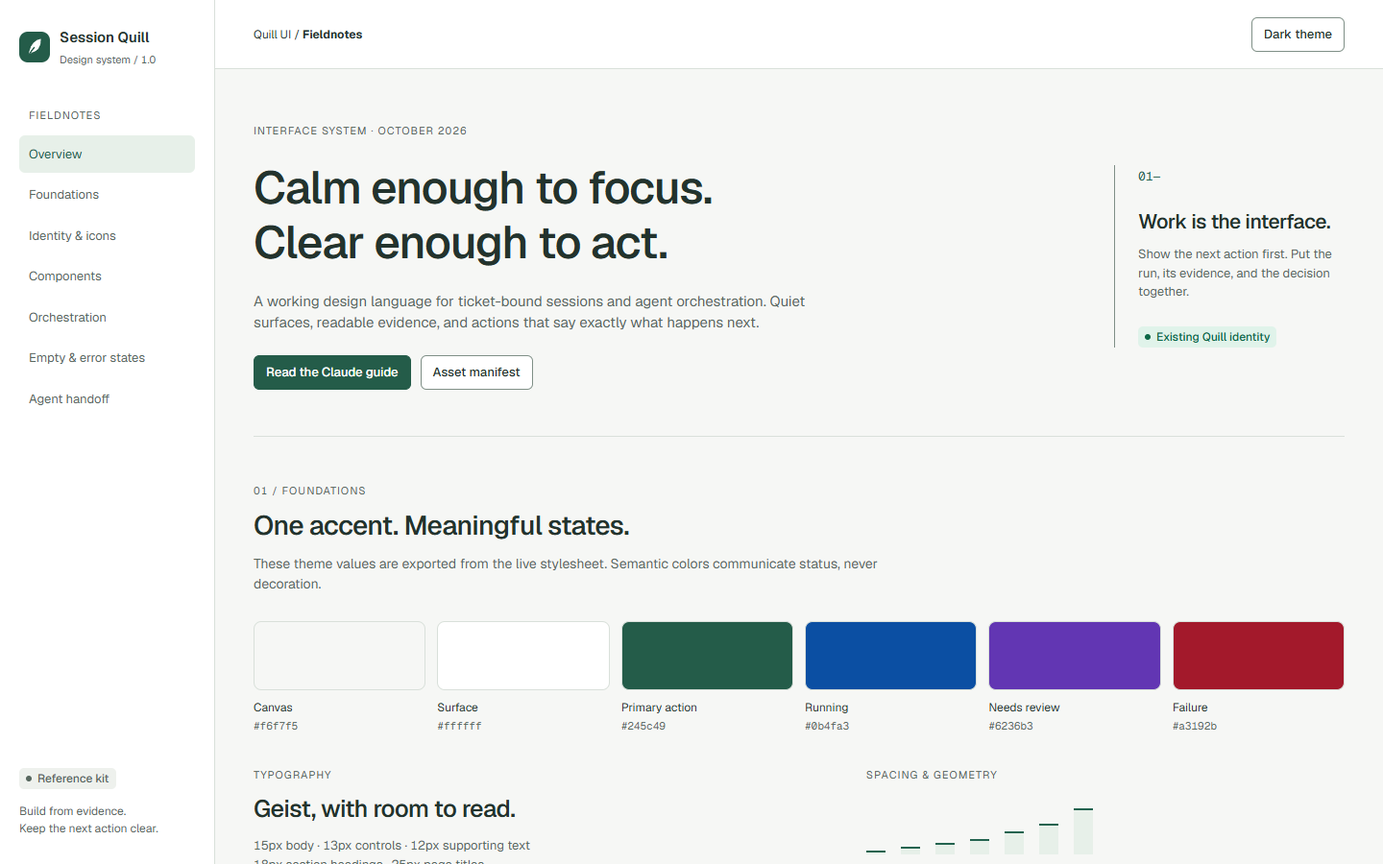
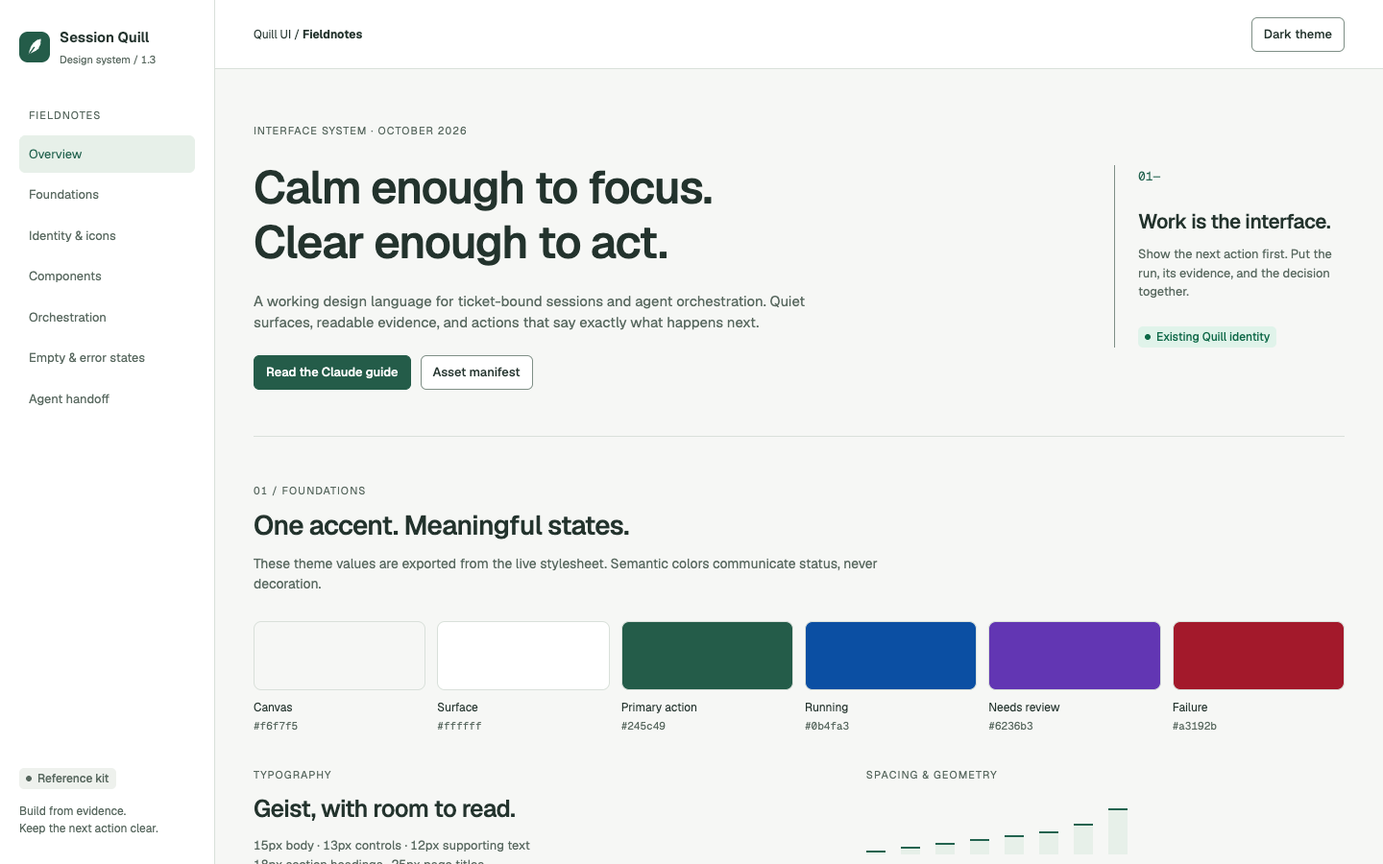
fix(ui): align accessibility and Fieldnotes design guidance

diff --git a/docs/design-system/index.html b/docs/design-system/index.html
@@ -3,14 +3,14 @@
 <head><meta charset="utf-8"><meta name="viewport" content="width=device-width,initial-scale=1"><title>Quill — Fieldnotes design system</title><meta name="description" content="Quill UI assets, tokens, components and orchestration patterns for implementation agents."><link rel="icon" href="../../ui/assets/brand/quill-mark-light.svg"><link rel="stylesheet" href="../../ui/assets/tokens.css"><link rel="stylesheet" href="../../ui/assets/components.css"><link rel="stylesheet" href="reference.css"></head>
 <body>
 <a class="skip" href="#main">Skip to reference</a>
-<aside class="rail"><a class="brand" href="#"><img src="../../ui/assets/brand/quill-mark-light.svg" alt="" width="32" height="32"><span>Session Quill<small>Design system / 1.0</small></span></a><p class="rail-caption">Fieldnotes</p><nav aria-label="Design system"><a href="#principles">Overview</a><a href="#foundations">Foundations</a><a href="#identity">Identity & icons</a><a href="#components">Components</a><a href="#orchestration">Orchestration</a><a href="#states">Empty & error states</a><a href="#handoff">Agent handoff</a></nav><div class="rail-foot"><span class="q-chip">Reference kit</span><p>Build from evidence.<br>Keep the next action clear.</p></div></aside>
+<aside class="rail"><a class="brand" href="#"><img src="../../ui/assets/brand/quill-mark-light.svg" alt="" width="32" height="32"><span>Session Quill<small>Design system / 1.3</small></span></a><p class="rail-caption">Fieldnotes</p><nav aria-label="Design system"><a href="#principles">Overview</a><a href="#foundations">Foundations</a><a href="#identity">Identity & icons</a><a href="#components">Components</a><a href="#orchestration">Orchestration</a><a href="#states">Empty & error states</a><a href="#handoff">Agent handoff</a></nav><div class="rail-foot"><span class="q-chip">Reference kit</span><p>Build from evidence.<br>Keep the next action clear.</p></div></aside>
 <div class="canvas"><header class="toolbar"><span>Quill UI / <strong>Fieldnotes</strong></span><button class="q-button" id="theme" type="button" aria-pressed="false">Dark theme</button></header>
 <main id="main">
 <section id="principles" class="intro"><div><p class="eyebrow">Interface system · October 2026</p><h1>Calm enough to focus.<br>Clear enough to act.</h1><p class="lede">A working design language for ticket-bound sessions and agent orchestration. Quiet surfaces, readable evidence, and actions that say exactly what happens next.</p><div class="links"><a class="q-button q-button--primary" href="CLAUDE-DESIGN-SYSTEM.md">Read the Claude guide</a><a class="q-button" href="../../ui/assets/manifest.json">Asset manifest</a></div></div><div class="intro-note"><span class="index">01—</span><h2>Work is the interface.</h2><p>Show the next action first. Put the run, its evidence, and the decision together.</p><div class="q-chip" data-tone="good">Existing Quill identity</div></div></section>
 <section id="foundations"><div class="section-heading"><p class="eyebrow">01 / Foundations</p><h2>One accent. Meaningful states.</h2><p>These theme values are exported from the live stylesheet. Semantic colors communicate status, never decoration.</p></div><div id="swatches" class="swatches"></div><div class="foundation-bottom"><div><p class="eyebrow">Typography</p><h3 class="type-sample">Geist, with room to read.</h3><p>15px body · 13px controls · 12px supporting text<br>18px section headings · 25px page titles</p><code class="mono-sample">PROJ-42 · 1 min 24 s · 12 / 18</code><p class="q-caption">Geist Mono for keys, durations and source evidence. Both fonts are bundled locally.</p></div><div><p class="eyebrow">Spacing & geometry</p><div class="spacing" id="spacing"></div><p class="q-caption">4px base rhythm · 6px controls · 10px cards · 12px panels.<br>36px desktop controls; 44px coarse-pointer targets.</p></div></div></section>
 <section id="identity"><div class="section-heading"><p class="eyebrow">02 / Identity & iconography</p><h2>A familiar mark. A consistent line.</h2><p>Preserve the existing Quill feather. Icons use the current 16px grid and 1.5px stroke; eight additions support orchestration.</p></div><div class="brand-samples"><div class="brand-light"><img src="../../ui/assets/brand/quill-mark-light.svg" alt="Quill mark for light surfaces"><span>Session Quill</span></div><div class="brand-dark"><img src="../../ui/assets/brand/quill-mark-dark.svg" alt="Quill mark for dark surfaces"><span>Session Quill</span></div><div class="brand-mono"><img src="../../ui/assets/brand/quill-mark-mono.svg" alt="Monochrome Quill mark"><span>Single-color mark</span></div></div><div class="icon-toolbar"><label class="q-field" for="icon-search">Find an icon<input class="q-input" id="icon-search" type="search" placeholder="Search icons: queue, tests, approve…"></label><p class="q-caption">Select an icon to copy its SVG markup.</p></div><div id="icons" class="icon-grid"></div><p id="icon-empty" hidden>No matching icons. Try a shorter name.</p></section>
 <section id="components"><div class="section-heading"><p class="eyebrow">03 / Components</p><h2>Small parts, explicit behavior.</h2><p>Opt-in <code>q-*</code> styles for new UI. Existing dashboard classes remain unchanged.</p></div><div class="component-grid"><article class="specimen"><h3>Action hierarchy</h3><div class="row"><button class="q-button q-button--primary" data-demo="Primary action specimen" type="button">Queue run</button><button class="q-button" data-demo="Secondary action specimen" type="button">View evidence</button><button class="q-button q-button--quiet" data-demo="Quiet action specimen" type="button">Dismiss</button></div><div class="row"><button class="q-button q-button--danger" data-demo="Destructive action specimen; confirmation required in a real flow" type="button">Cancel run</button><button class="q-button" disabled>Waiting for worker</button></div><p class="q-caption">Specimens only. These buttons do not dispatch or cancel runs.</p></article><article class="specimen"><h3>Labelled status</h3><div class="row"><span class="q-chip">Queued</span><span class="q-chip" data-tone="active">Running</span><span class="q-chip" data-tone="review">Needs review</span><span class="q-chip" data-tone="good">Tests passed (worker)</span><span class="q-chip" data-tone="critical">Tests failed</span><span class="q-chip" data-tone="warning">Not test-verified</span></div><p class="q-caption">A green test result needs worker evidence. Run completion is not ticket completion.</p></article><article class="specimen"><h3>Form guidance</h3><label class="q-field" for="sample-command">Repository test command<input class="q-input" id="sample-command" value="npm test" aria-describedby="command-help"></label><p id="command-help" class="q-caption">Reference field only. Run in the isolated checkout; show the recorded result.</p><label class="q-field" for="sample-branch">Branch<input class="q-input" id="sample-branch" value="main" aria-invalid="true" aria-describedby="branch-error"></label><p id="branch-error" class="q-error">Choose a working branch. The default branch is protected.</p></article><article class="specimen"><h3>Evidence before decisions</h3><div class="q-next-action"><strong>Next action</strong>Inspect the retry fix and its worker test result.</div><p class="q-caption">State the concrete action. Keep the underlying record accessible when the preview is truncated.</p><div class="q-notice">Analysis complete. Two suggestions are waiting for your review.</div></article></div></section>
-<section id="orchestration"><div class="section-heading"><p class="eyebrow">04 / Orchestration pattern</p><h2>See the work through.</h2><p><strong>The shipped Runs page, with example data.</strong> Rows state only what the worker records: occupancy while queued, elapsed time while running, outcomes when finished.</p></div><div class="run-example q-panel"><div class="run-heading"><div><h3>Runs</h3><p class="q-caption">Example workspace · independent run and ticket states</p></div><span class="q-chip" data-tone="review">Example data</span></div><div class="q-tabs" role="tablist" aria-label="Run examples"><button class="q-tab" role="tab" id="tab-needs" aria-selected="true" aria-controls="panel-needs" data-panel="needs">Needs you <span>1</span></button><button class="q-tab" role="tab" id="tab-live" aria-selected="false" aria-controls="panel-live" tabindex="-1" data-panel="live">Live <span>2</span></button><button class="q-tab" role="tab" id="tab-failed" aria-selected="false" aria-controls="panel-failed" tabindex="-1" data-panel="failed">Failed <span>1</span></button></div><div role="tabpanel" id="panel-needs" aria-labelledby="tab-needs" class="run-panel"><div class="q-run-row"><div><code>PROJ-42 / analyse</code><h4>Verify checkpoint recovery</h4><p class="q-caption">2 suggestions to review · Read-only</p></div><span class="q-chip" data-tone="review">Done</span></div><div class="q-notice">The run finished. Suggestions still need an owner decision.</div></div><div role="tabpanel" id="panel-live" aria-labelledby="tab-live" class="run-panel" hidden><div class="q-run-row"><div><code>PROJ-43 / attempt-fix</code><h4>Respect the payments retry budget</h4><p class="q-caption">Running for 2 min · setup 4 s · Edits source</p></div><span class="q-chip" data-tone="active">Running</span></div><div class="q-run-row"><div><code>PROJ-47 / attempt-fix</code><h4>Handle retry exhaustion</h4><p class="q-caption">Queued · fix slots 1/1 in use · repository busy</p></div><span class="q-chip">Queued</span></div><div class="q-notice">No ETA shown. Start time depends on the active run releasing capacity.</div></div><div role="tabpanel" id="panel-failed" aria-labelledby="tab-failed" class="run-panel" hidden><div class="q-run-row"><div><code>PROJ-51 / attempt-fix</code><h4>Cap the webhook backoff</h4><p class="q-caption">Tests failed · Retried as a new run</p></div><span class="q-chip" data-tone="critical">Failed</span></div><div class="q-notice">A later run superseded this one, so it no longer needs you.</div></div></div></section>
+<section id="orchestration"><div class="section-heading"><p class="eyebrow">04 / Orchestration pattern</p><h2>See the work through.</h2><p><strong>A simplified Runs pattern, with example data.</strong> This specimen demonstrates status and evidence wording; the production page also includes All, grouped decisions, and selectable run rows.</p></div><div class="run-example q-panel"><div class="run-heading"><div><h3>Runs</h3><p class="q-caption">Example workspace · independent run and ticket states</p></div><span class="q-chip" data-tone="review">Example data</span></div><div class="q-tabs" role="tablist" aria-label="Run examples"><button class="q-tab" role="tab" id="tab-needs" aria-selected="true" aria-controls="panel-needs" data-panel="needs">Needs you <span>1</span></button><button class="q-tab" role="tab" id="tab-live" aria-selected="false" aria-controls="panel-live" tabindex="-1" data-panel="live">Live <span>2</span></button><button class="q-tab" role="tab" id="tab-failed" aria-selected="false" aria-controls="panel-failed" tabindex="-1" data-panel="failed">Failed <span>1</span></button></div><div role="tabpanel" tabindex="0" id="panel-needs" aria-labelledby="tab-needs" class="run-panel"><div class="q-run-row"><div><code>PROJ-42 / analyse</code><h4>Verify checkpoint recovery</h4><p class="q-caption">2 suggestions to review · Read-only</p></div><span class="q-chip" data-tone="review">Done</span></div><div class="q-notice">The run finished. Suggestions still need an owner decision.</div></div><div role="tabpanel" tabindex="0" id="panel-live" aria-labelledby="tab-live" class="run-panel" hidden><div class="q-run-row"><div><code>PROJ-43 / attempt-fix</code><h4>Respect the payments retry budget</h4><p class="q-caption">Running for 2 min · setup 4 s · Edits source</p></div><span class="q-chip" data-tone="active">Running</span></div><div class="q-run-row"><div><code>PROJ-47 / attempt-fix</code><h4>Handle retry exhaustion</h4><p class="q-caption">Queued · fix slots 1/1 in use · repository busy</p></div><span class="q-chip">Queued</span></div><div class="q-notice">No ETA shown. Start time depends on the active run releasing capacity.</div></div><div role="tabpanel" tabindex="0" id="panel-failed" aria-labelledby="tab-failed" class="run-panel" hidden><div class="q-run-row"><div><code>PROJ-51 / attempt-fix</code><h4>Cap the webhook backoff</h4><p class="q-caption">Tests failed · Retried as a new run</p></div><span class="q-chip" data-tone="critical">Failed</span></div><div class="q-notice">A later run superseded this one, so it no longer needs you.</div></div></div></section>
 <section id="states"><div class="section-heading"><p class="eyebrow">05 / Empty & error states</p><h2>Always explain the next step.</h2><p>Small, transparent SVG illustrations. Use one per empty region, with a real explanation and relevant action.</p></div><div class="empty-grid"><article class="q-empty q-panel"><img src="../../ui/assets/illustrations/empty-queue.svg" alt=""><h3>No runs queued</h3><p>Select a ticket and choose a recipe to prepare a run.</p><a class="q-button" href="#orchestration">View run pattern</a></article><article class="q-empty q-panel"><img src="../../ui/assets/illustrations/no-results.svg" alt=""><h3>No matching work</h3><p>Broaden the project or status filter to see more results.</p></article><article class="q-empty q-panel"><img src="../../ui/assets/illustrations/review-ready.svg" alt=""><h3>Review complete</h3><p>No suggestions are waiting for an owner decision.</p></article><article class="q-empty q-panel"><img src="../../ui/assets/illustrations/worker-offline.svg" alt=""><h3>Worker offline</h3><p>Showing the last snapshot. Changes cannot be queued until the connection returns.</p></article></div></section>
 <section id="handoff" class="handoff"><p class="eyebrow">06 / Agent handoff</p><h2>Use the system. Preserve the behavior.</h2><p>Start with the Claude guide, reuse existing renderers, and verify the full workflow. A visual state is a promise about the underlying record.</p><div class="links"><a class="q-button q-button--primary" href="CLAUDE-DESIGN-SYSTEM.md">Implementation contract</a><a class="q-button" href="../../ui/assets/README.md">Asset usage</a><a class="q-button" href="../AGENT-HANDOVER-ORCHESTRATION-1.0.md">Known gaps</a></div></section>
 <footer>Quill Fieldnotes · SVG assets under the repository MIT license · Geist under SIL OFL</footer>

diff --git a/docs/design-system/reference.js b/docs/design-system/reference.js
@@ -9,31 +9,37 @@ function refreshSwatches() {
 }
 themeButton.addEventListener('click', () => {
   const dark = root.dataset.theme !== 'dark'; root.dataset.theme = dark ? 'dark' : 'light';
-  themeButton.textContent = dark ? 'Light theme' : 'Dark theme'; themeButton.setAttribute('aria-pressed', String(dark)); refreshSwatches();
+  themeButton.setAttribute('aria-pressed', String(dark)); refreshSwatches();
   for (const art of document.querySelectorAll('.q-empty img')) { const name = art.getAttribute('src').replace('-dark.svg', '.svg'); art.src = dark ? name.replace('.svg', '-dark.svg') : name; }
   document.querySelector('.brand img').src = `../../ui/assets/brand/quill-mark-${dark ? 'dark' : 'light'}.svg`;
 });
 const palette = [['bg','Canvas'],['surface','Surface'],['accent-fill','Primary action'],['status-active','Running'],['status-review','Needs review'],['critical','Failure']];
 document.querySelector('#swatches').innerHTML = palette.map(([token, label]) => `<div class="swatch" data-token="${token}"><div class="swatch-color" style="background:var(--${token})"></div><p>${label}</p><code></code></div>`).join('');
 refreshSwatches();
-document.querySelector('#spacing').innerHTML = [4,8,12,16,24,32,48].map((n)=>`<div style="height:${n}px"><span>${n}</span></div>`).join('');
-try {
-  const response = await fetch('../../ui/assets/manifest.json'); if (!response.ok) throw new Error('Asset manifest unavailable');
-  const manifest = await response.json();
-  const icons = manifest.files.filter((f)=>f.role==='icon' && f.path!=='icons/sprite.svg');
-  const grid = document.querySelector('#icons');
-  for (const asset of icons) {
-    const name = asset.path.split('/').pop().replace('.svg','');
-    const button = document.createElement('button'); button.type='button'; button.className='icon-tile'; button.dataset.name=name; button.setAttribute('aria-label',`Copy ${name} SVG`);
-    // Assets are local, repository-owned SVG, generated by build-ui-assets.mjs.
-    const result = await fetch(`../../ui/assets/${asset.path}`); if (!result.ok) throw new Error(`Could not load ${name}`);
-    const svg=await result.text(); button.innerHTML=svg;
-    const label=document.createElement('span'); label.textContent=name; button.append(label);
-    button.addEventListener('click',async()=>{ try { await navigator.clipboard.writeText(svg); notify(`Copied ${name}.svg`); } catch { notify(`Clipboard unavailable. Download ui/assets/${asset.path} from the asset folder.`); } });
-    grid.append(button);
-  }
-} catch (error) { document.querySelector('#icons').textContent=`${error.message}. Serve this reference from the repository root over localhost; file:// cannot load the SVG catalog.`; }
-document.querySelector('#icon-search').addEventListener('input',(event)=>{ let count=0; for(const tile of document.querySelectorAll('.icon-tile')) { tile.hidden=!tile.dataset.name.includes(event.target.value.trim().toLowerCase()); if(!tile.hidden)count++; } document.querySelector('#icon-empty').hidden=count!==0; });
+document.querySelector('#spacing').innerHTML = [4,8,12,16,20,24,32,48].map((n)=>`<div style="height:${n}px"><span>${n}</span></div>`).join('');
+async function loadIcons() {
+  try {
+    const response = await fetch('../../ui/assets/manifest.json'); if (!response.ok) throw new Error('Asset manifest unavailable');
+    const manifest = await response.json();
+    const icons = manifest.files.filter((f)=>f.role==='icon' && f.path!=='icons/sprite.svg');
+    const grid = document.querySelector('#icons');
+    for (const asset of icons) {
+      const name = asset.path.split('/').pop().replace('.svg','');
+      const button = document.createElement('button'); button.type='button'; button.className='icon-tile'; button.dataset.name=name; button.setAttribute('aria-label',`Copy ${name} SVG`);
+      // Assets are local, repository-owned SVG, generated by build-ui-assets.mjs.
+      const result = await fetch(`../../ui/assets/${asset.path}`); if (!result.ok) throw new Error(`Could not load ${name}`);
+      const svg=await result.text(); button.innerHTML=svg;
+      const label=document.createElement('span'); label.textContent=name; button.append(label);
+      button.addEventListener('click',async()=>{ try { await navigator.clipboard.writeText(svg); notify(`Copied ${name}.svg`); } catch { notify(`Clipboard unavailable. Download ui/assets/${asset.path} from the asset folder.`); } });
+      grid.append(button);
+      filterIcons();
+    }
+  } catch (error) { document.querySelector('#icons').textContent=`${error.message}. Serve this reference from the repository root over localhost; file:// cannot load the SVG catalog.`; }
+}
+// Catalog fetches must not delay keyboard and demo controls.
+loadIcons();
+function filterIcons() { let count=0; const query=document.querySelector('#icon-search').value.trim().toLowerCase(); for(const tile of document.querySelectorAll('.icon-tile')) { tile.hidden=!tile.dataset.name.includes(query); if(!tile.hidden)count++; } document.querySelector('#icon-empty').hidden=count!==0; }
+document.querySelector('#icon-search').addEventListener('input', filterIcons);
 const tabs=[...document.querySelectorAll('.q-tab')];
 function selectTab(tab,focus=false) { for(const item of tabs) { const active=item===tab; item.setAttribute('aria-selected',String(active));item.tabIndex=active?0:-1;document.querySelector(`#panel-${item.dataset.panel}`).hidden=!active; }if(focus)tab.focus(); }
 for(const [index,tab] of tabs.entries()) { tab.addEventListener('click',()=>selectTab(tab));tab.addEventListener('keydown',(e)=>{if(!['ArrowLeft','ArrowRight','Home','End'].includes(e.key))return;e.preventDefault();const next=e.key==='Home'?0:e.key==='End'?tabs.length-1:(index+(e.key==='ArrowRight'?1:tabs.length-1))%tabs.length;selectTab(tabs[next],true);}); }

diff --git a/ui/app.js b/ui/app.js
@@ -199,6 +199,11 @@ function render() {
   const searchPos = searchFocused ? document.activeElement.selectionStart : null;
   const workspaceOpen = $('#sidebar .workspace-details')?.open;
   setMarkup($('#sidebar'), renderSidebar(s, { view: appState.view, endpoint: appState.endpoint, online: appState.online, filters: appState.filters, collapsed: appState.sidebarCollapsed, now, moreOpen: appState.moreOpen, memory: appState.memory }));
+  const navTabs = [...document.querySelectorAll('#sidebar .nav [role="tab"]')].filter((el) => el.getClientRects().length);
+  const navStop = navTabs.find((el) => el.getAttribute('aria-selected') === 'true') ?? navTabs[0];
+  for (const tab of navTabs) tab.tabIndex = tab === navStop ? 0 : -1;
+  $('#sidebar .nav').setAttribute('aria-orientation', window.innerWidth < 900 ? 'horizontal' : 'vertical');
+  main.setAttribute('aria-labelledby', `tab-${appState.view}`);
   if (workspaceOpen) $('#sidebar .workspace-details').open = true;
   // Keep an open health popover (provider errors, worker) open across the header's per-minute re-render.
   const healthOpen = [...document.querySelectorAll('#header .health-pop')].flatMap((p, i) => (p.open ? [i] : []));
@@ -874,7 +879,6 @@ function closeDialog() {
   if (host.open) host.close();
   host.innerHTML = '';
   delete host.dataset.key;
-  if (appState.lastFocus && document.contains(appState.lastFocus)) appState.lastFocus.focus();
 }
 
 function visibleTicketIds() {
@@ -1019,6 +1023,15 @@ function onKey(e) {
   if (e.defaultPrevented || e.isComposing || e.ctrlKey || e.metaKey || e.altKey) return;
   const target = e.target;
   const inInput = target && (target.tagName === 'INPUT' || target.tagName === 'TEXTAREA' || target.tagName === 'SELECT' || target.isContentEditable);
+  const navTab = target?.closest('#sidebar .nav [role="tab"]');
+  const navKeys = window.innerWidth < 900 ? ['ArrowLeft', 'ArrowRight'] : ['ArrowUp', 'ArrowDown'];
+  if (navTab && [...navKeys, 'Home', 'End'].includes(e.key)) {
+    e.preventDefault();
+    const tabs = [...document.querySelectorAll('#sidebar .nav [role="tab"]')].filter((el) => el.getClientRects().length);
+    const index = tabs.indexOf(navTab);
+    const next = tabs[e.key === 'Home' ? 0 : e.key === 'End' ? tabs.length - 1 : (index + (e.key === navKeys[1] ? 1 : tabs.length - 1)) % tabs.length];
+    setView(next.dataset.view); render(); $(`#tab-${appState.view}`)?.focus(); return;
+  }
   const runTab = target?.closest('[role="tab"][data-action="run-tab"]');
   if (runTab && ['ArrowLeft', 'ArrowRight', 'Home', 'End'].includes(e.key)) {
     e.preventDefault();
@@ -1101,7 +1114,11 @@ function onClick(e) {
   const action = e.target.closest('[data-action]');
   if (action && !['detail-nav', 'status-select'].includes(action.dataset.action)) { e.preventDefault(); appState.lastFocus = appState.lastFocus ?? action; handleAction(action); return; }
   const tab = e.target.closest('[data-view]');
-  if (tab) { appState.moreOpen = false; setView(tab.dataset.view); render(); return; }
+  if (tab) {
+    appState.moreOpen = false; setView(tab.dataset.view); render();
+    const selected = $(`#tab-${appState.view}`);
+    (selected?.getClientRects().length ? selected : $('.nav-more'))?.focus(); return;
+  }
   const card = e.target.closest('#main [data-ticket][role=button]');
   if (card && !e.target.closest('button, a, [data-copy]')) openDetail(card.dataset.ticket, card);
 }

diff --git a/ui/styles.css b/ui/styles.css
@@ -685,7 +685,7 @@ table.sessions th { font-size: 12px; color: var(--text-faint); font-weight: 500;
   .topbar { gap: 10px; }
   .topbar .brand { font-size: 13px; }
   .topbar-actions { gap: 0; }
-  .topbar-actions .btn.small { padding-inline: 6px; font-size: 11px; }
+  .topbar-actions .btn.small { padding-inline: 6px; font-size: 13px; }
   .topbar .search { max-width: none; }
   .statusline { font-size: 10px; gap: 8px; }
   .health-item { white-space: normal; }
@@ -928,7 +928,7 @@ body[data-bulk="on"] .main { padding-bottom: 96px; }
 .attention-section summary::before { content: '+'; color: var(--accent); font-weight: 600; }
 .attention-section details[open] > summary::before { content: '−'; }
 .attention-links { display: flex; flex-wrap: wrap; gap: 10px; margin-top: 12px; }
-.detail-head { position: sticky; top: -26px; background: var(--surface); z-index: 2; padding-block: 12px; }
+.detail-head { padding-block: 12px; }
 .detail-head h2 { font-size: 20px; }
 .detail-head .status-controls { margin-top: 12px; }
 .detail-tabs { display: flex; gap: 6px; border-bottom: 1px solid var(--border); margin-top: 20px; }
@@ -962,7 +962,7 @@ body[data-expanded-ticket="true"] .detail { max-width: 880px; margin-inline: aut
   .page-heading h1 { font-size: 24px; }
   .work-overview { gap: 8px 18px; }
   .overview-stat { padding: 0; }
-  .detail-head { top: -20px; }
+
   .detail-expand { display: none; }
   .nav-item .nav-label { font-size: 10px; }
 }
@@ -1156,4 +1156,12 @@ button.run-strip:hover { box-shadow: inset 0 0 0 1px var(--hairline-strong); }
   .topbar-actions { flex-wrap: nowrap; }
   .topbar .search { order: 0; flex: 1 1 120px; min-width: 0; }
   .topbar .brand span, .topbar-actions .action-label { display: none; }
+}
+
+/* Fieldnotes touch targets: preserve compact desktop controls on fine pointers. */
+@media (pointer: coarse) {
+  .btn, .btn.small, .detail-nav-keys .btn, button.link, button.key, .copy-key, .token,
+  .detail-tabs button, .run-tabs [role="tab"], .memory-tabs [role="tab"] { min-height: 44px; min-width: 44px; }
+  .topbar .search input, input[type="text"], input[type="datetime-local"], select,
+  .filters select { min-height: 44px; }
 }

diff --git a/ui/views/header.js b/ui/views/header.js
@@ -29,7 +29,7 @@ function navButton(item, { view, counts, needs }) {
   const badge = counts[id] ?? 0;
   const dot = id === 'runs' && needs ? '<span class="attention-dot" aria-hidden="true"></span>' : '';
   const name = id === 'runs' ? `${label}, ${badge} live${needs ? `, ${needs} need${needs === 1 ? 's' : ''} you` : ''}` : `${label}, ${badge} items`;
-  return `<button type="button" role="tab" class="nav-item${PHONE_PRIMARY.has(id) ? '' : ' nav-overflow'}" title="${esc(label)}" aria-label="${attr(name)}" data-view="${id}" id="tab-${id}" aria-selected="${view === id ? 'true' : 'false'}" aria-controls="main" aria-keyshortcuts="${key}">${icon(ic)}<span class="nav-label">${esc(label)}</span>${dot}<span class="badge" aria-hidden="true" title="Shortcut ${key}">${esc(badge)}</span></button>`;
+  return `<button type="button" role="tab" class="nav-item${PHONE_PRIMARY.has(id) ? '' : ' nav-overflow'}" title="${esc(label)}" aria-label="${attr(name)}" data-view="${id}" id="tab-${id}" aria-selected="${view === id ? 'true' : 'false'}" aria-controls="main" aria-keyshortcuts="${key}" tabindex="${view === id ? 0 : -1}">${icon(ic)}<span class="nav-label">${esc(label)}</span>${dot}<span class="badge" aria-hidden="true" title="Shortcut ${key}">${esc(badge)}</span></button>`;
 }
 
 // The views this dashboard offers: an export or read-only snapshot leaves out the owner-only ones.

diff --git a/docs/design-system/CLAUDE-DESIGN-SYSTEM.md b/docs/design-system/CLAUDE-DESIGN-SYSTEM.md
@@ -1,6 +1,6 @@
 # Quill Fieldnotes — Claude design system
 
-Version 1.2 · 21 October 2026 · Quill-owned design language.
+Version 1.3 · 30 October 2026 · Quill-owned design language.
 
 This is an implementation contract for Claude and other coding agents working on Quill. It is not a recreation of the Claude app and has no affiliation with Anthropic's brand system.
 
@@ -25,7 +25,7 @@ Preserve the existing green/Geist identity. Use neutral surfaces, one primary ev
 | `ui/styles.css`, `ui/components.js`, current view renderers | Shipped implementation and theme/icon source values |
 | This document | Visual direction, component usage and implementation guidance |
 | `ui/assets/tokens.json` and `tokens.css` | Generated theme snapshot plus additive reference primitives |
-| `docs/design-system/index.html` | Inspectable component examples and the Runs page with example data |
+| `docs/design-system/index.html` | Inspectable component examples and a simplified Runs pattern; not a production screen replica |
 | `docs/AGENT-HANDOVER-ORCHESTRATION-1.0.md` | Known defects, scope gaps and prior validation limits |
 
 `docs/UI-DESIGN.md` is an older behavioral specification. Its “inbox first”, Today/Tree labels and prior visual layouts are superseded by the current UI. Historical `docs/ui/graphite_ink` and `terminal_slate` directions must not be blended into Fieldnotes.
@@ -70,7 +70,7 @@ Use `--border` for separation and `--border-strong` for actionable boundaries. T
 - Use 12–16px within a component, 20–24px between groups, and 24–32px content gutters on desktop.
 - Controls: 6px radius. Ticket cards: 10px. Larger panels: 12px.
 - These effective radii match the current app's later overrides. Legacy `--radius*` variables remain unchanged; the opt-in kit expresses them as `--q-radius-*`.
-- Desktop control height target: 36px; coarse-pointer target: at least 44px. The existing app has some smaller controls; new kit components should not inherit that debt.
+- Desktop control height target: 36px; coarse-pointer target: at least 44px. Compact desktop controls may remain smaller; the dashboard's action buttons, copy controls, filter tokens, tabs, search and selects expand for coarse pointers. Check the actual hit area rather than the icon size.
 - Content maximum: 1320px; expanded ticket reading width approximately 880px.
 - Current sidebar: 224px expanded / 72px collapsed; detail width: 440px. Do not force docking if the remaining work area becomes unusable.
 
@@ -213,6 +213,9 @@ Repository bindings belong to the checkpoint/event that recorded them. A session
 - Test at 390×844, 1024px, 1280×720 and 1440×900. Constrain document overflow; horizontally scrolling filters/tables must remain visibly usable.
 - Preserve every authorized action on narrow layouts. Move secondary navigation to an explicit menu rather than shrinking labels indefinitely.
 - Use native buttons/inputs and visible focus. Do not add nested interactive elements inside a button. A clickable article with separate inner actions needs deliberate keyboard behavior.
+- Sidebar tabs have one visible Tab stop, Up/Down navigation on desktop and Left/Right on phones, plus Home/End. The content panel names its selected tab. Phone overflow views remain available through More.
+- Native dialogs restore focus to their own trigger on close. Do not override that with a ticket drawer's remembered trigger. Standalone reference tab panels without focusable content have `tabindex="0"`.
+- Keep only the detail action bar sticky. Ticket titles and metadata scroll with the content so long headers cannot obscure evidence or section controls.
 - Polling must preserve drafts, focused controls, expanded evidence, selected tabs and scroll. Re-rendering must not repeatedly announce unchanged health.
 - Use stable identities for records and disclosure state; do not key important state solely by array position.
 - Use live regions for meaningful request/run transitions; provide persistent inline failure details.

diff --git a/docs/design-system/REVIEW-2026-10-30.md b/docs/design-system/REVIEW-2026-10-30.md
@@ -1,0 +1,29 @@
+# Fieldnotes design-system review
+
+Reviewed the production dashboard, implementation contract, generated tokens, opt-in components, and interactive reference using UI Skills `baseline-ui` and `fixing-accessibility`. Quill's existing CSS, native controls, evergreen palette, and Geist typography remain the foundation.
+
+## Assessment
+
+The system has a coherent visual identity and useful semantic color roles. Theme tokens come from the production stylesheet, and existing contrast tests cover text, status colors, focus indicators, and control boundaries. The main weaknesses were incomplete keyboard behavior, small touch targets, and a reference page that overstated its parity with production. These warranted targeted fixes, not a new UI framework or visual redesign.
+
+## Findings and fixes
+
+| Finding | Evidence before the change | Resolution |
+| --- | --- | --- |
+| Sidebar tab semantics lacked keyboard behavior | `role="tab"` controls had no arrow-key handler; all were Tab stops; `#main` lacked its selected-tab label | Roving focus, orientation-aware arrows, Home/End, panel labelling, and focus after navigation. Hidden phone tabs are skipped; More remains reachable. |
+| Dialog focus could return to the wrong control | `closeDialog()` focused shared `lastFocus`; opening Help before Run agent reproduced a return to Help | Let the native dialog restore its own trigger instead of overriding it with drawer state. |
+| Phone targets contradicted the 44px guidance | Browser measurements found 30px action buttons and a 32px search field; detail navigation used 28px buttons | Coarse-pointer rules enlarge action/copy buttons, filter tokens, tabs, search, and selects. Mobile toolbar labels use 13px rather than 11px. |
+| Long titles obscured evidence | Sticky `.detail-head` covered the Activity tab when scrolling a long ticket title | Only the detail navigation remains sticky; the title and metadata scroll normally. |
+| Reference tabs skipped their content | Pressing Tab after selecting Live skipped the panel | Reference panels now have `tabindex="0"`. |
+| Reference toggle name changed with its pressed state | The theme button changed from “Dark theme” to “Light theme” while `aria-pressed` became true | Keep “Dark theme” as the stable toggle name and expose state through `aria-pressed`. |
+| Icon fetching delayed unrelated reference controls | Top-level `await` loaded each SVG before registering tab and demo handlers | Load the catalog independently; preserve an icon search entered while loading. A held-manifest browser test covers this. |
+| Reference and documentation had drifted | The reference said version 1.0 and “The shipped Runs page”; its example omitted production behavior; spacing omitted 20px | Align the guide and reference at 1.3, label the Runs example as simplified, restore the spacing step, and refresh both preview images. |
+
+## Validation
+
+- 251 UI/export tests passed, including theme contrast and export privacy checks.
+- 18 Chromium browser tests passed with no captured page errors.
+- Dashboard and reference layout checks at 390, 1024, 1280, and 1440px in light and dark themes; long ticket content, keyboard flows, and coarse-pointer targets covered separately.
+- All 50 generated assets verified without regeneration; no token values or runtime dependencies changed.
+
+The `q-*` reference kit remains opt-in; it is not the dashboard's component implementation. Compact desktop controls still vary in size. This review did not perform a screen-reader audit, Safari/Firefox testing, or a full backend test run, and does not certify complete accessibility compliance.

diff --git a/DESIGN.md b/DESIGN.md
@@ -8,6 +8,7 @@ The design system for Quill's ticket and agent-orchestration UI.
 - [Token map](ui/assets/tokens.json)
 - [Asset manifest](ui/assets/manifest.json)
 - [Current implementation and scope gaps](docs/AGENT-HANDOVER-ORCHESTRATION-1.0.md)
+- [Design-system review and fixes, 30 October 2026](docs/design-system/REVIEW-2026-10-30.md)
 
 Preserve the evergreen/Geist identity implemented in `ui/styles.css`. Historical Graphite Ink and Terminal Slate boards in `docs/ui/` are archived references, not the current visual direction. The older `docs/UI-DESIGN.md` remains useful for behavior contracts; its superseded layout descriptions must be read alongside the current design contract.
 
